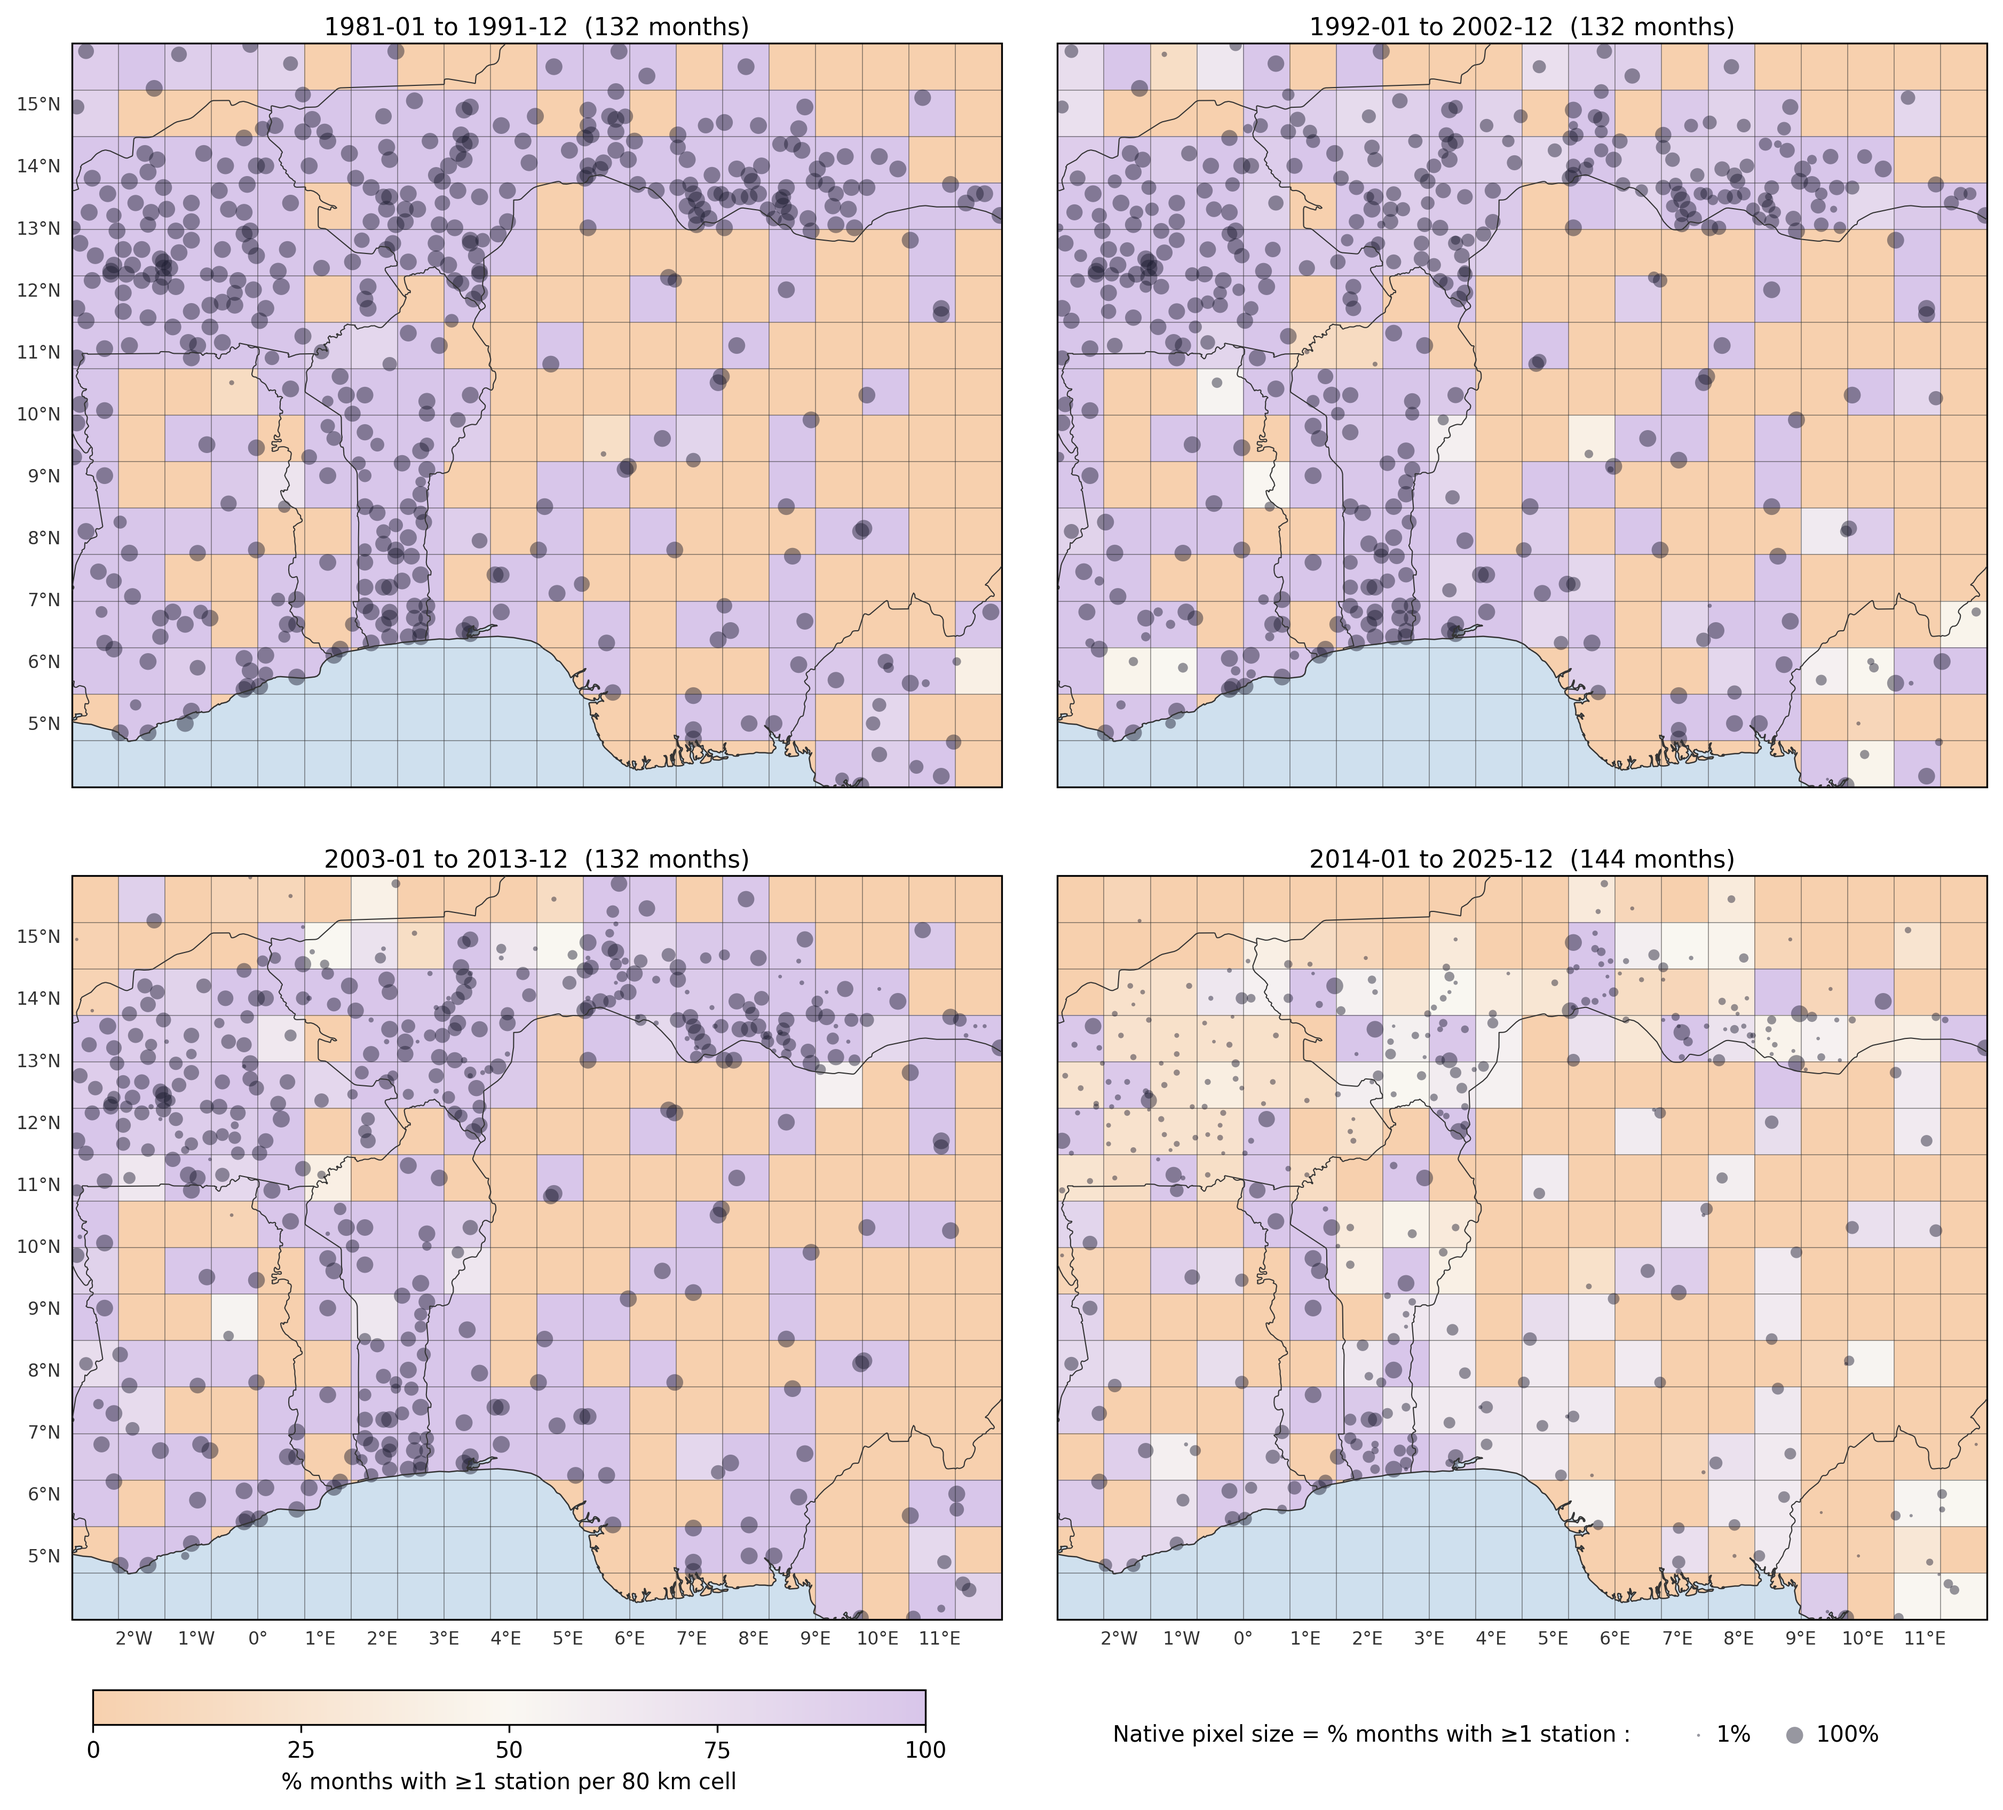
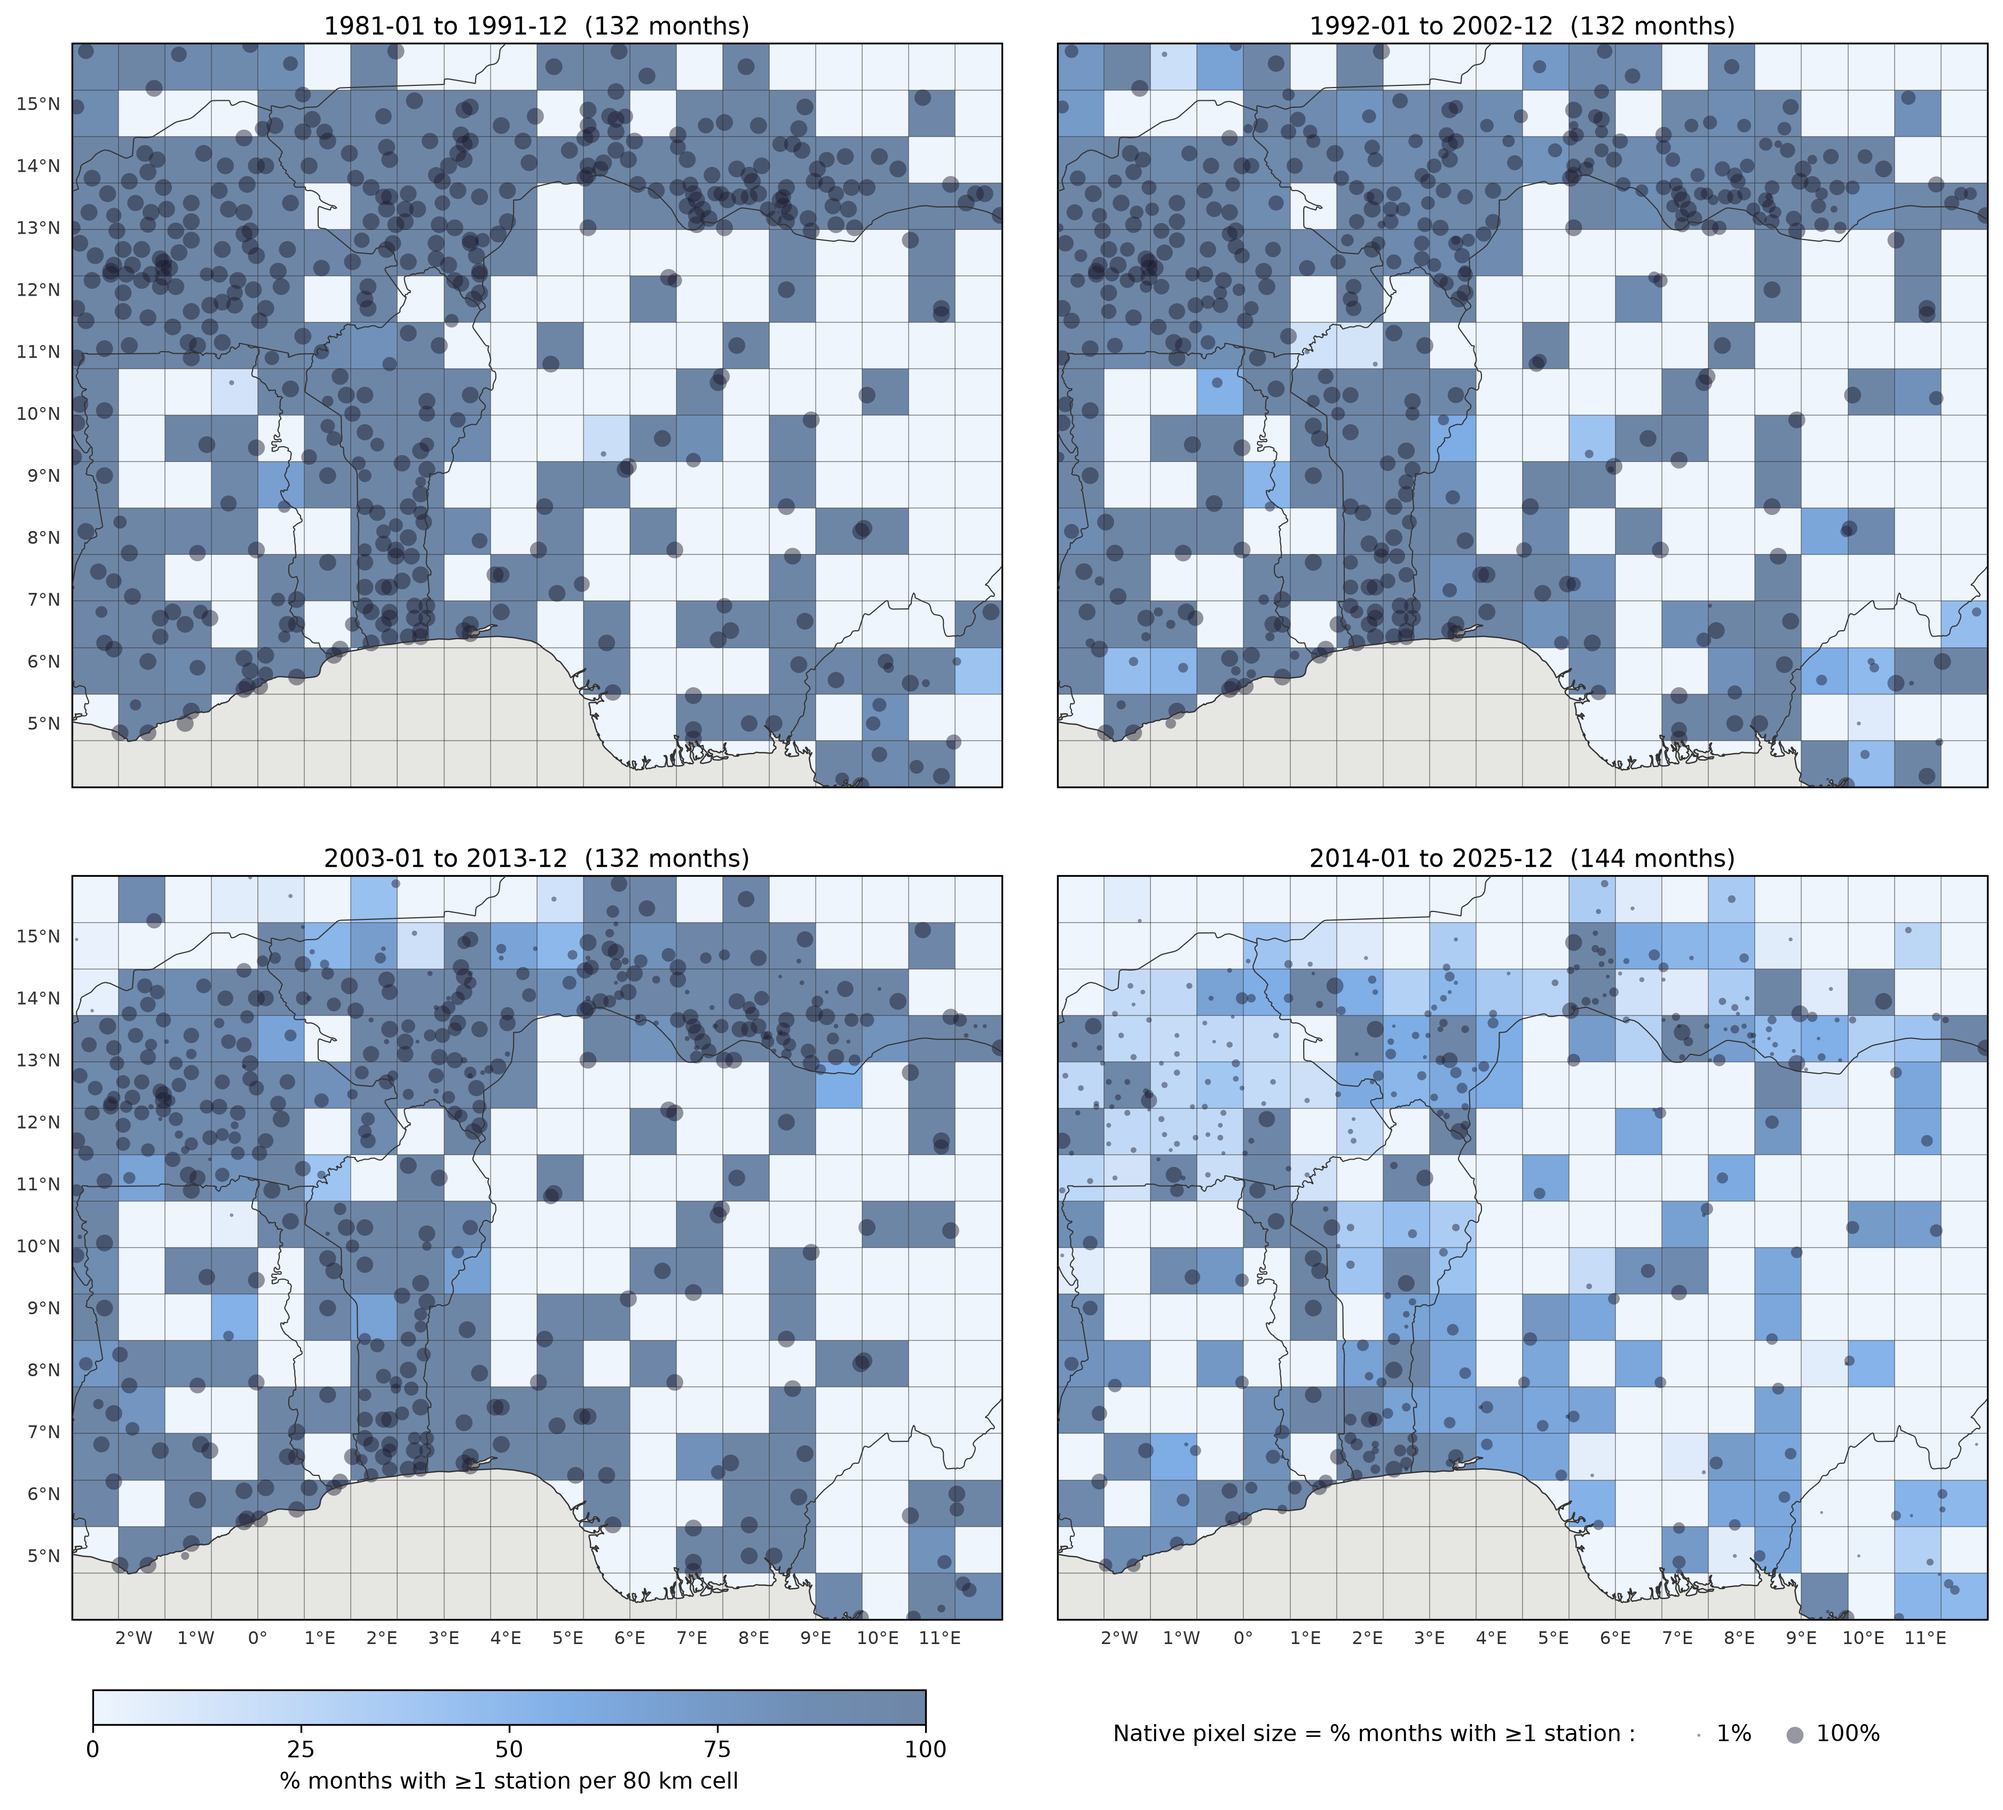
Use one colour-blind-safe blue scale for both submission figures
Figures 1 and 2 now share a sequential blue ramp (light = little or no gauge
support, dark = strong support) with a neutral grey ocean, and Figure 2's
lines are orange (West Africa) and blue (NW US). Figure 2's maps use the
published R² range (0.20-0.85) so the satellite-only value sits at the light
end. Under a Machado (2009) protan/deutan simulation the key contrasts stay
well separated. Data are unchanged.

diff --git a/make_submission_figs.py b/make_submission_figs.py
@@ -1,7 +1,8 @@
 """
 Render submission-ready versions of Figure 1 and Figure 2:
-  - colorblind-safe palettes (orange = un-anchored, purple = station-anchored;
-    no red-green), consistent across both figures
+  - one colorblind-safe sequential blue scale shared by both figures
+    (light = little or no gauge support, dark = strong gauge support),
+    orange/blue time-series lines, and a neutral grey ocean
   - 300 dpi
   - no embedded suptitles (the manuscript captions carry that text)
 
@@ -14,8 +15,12 @@ from pathlib import Path
 
 import matplotlib
 matplotlib.use("Agg")
+import matplotlib.colors as mcolors
 import matplotlib.figure
 import matplotlib.pyplot as plt
+import cartopy.crs as ccrs
+import cartopy.feature as cfeature
+import cartopy.mpl.geoaxes as geoaxes
 
 OUT_DIR = Path("figures/submission")
 OUT_DIR.mkdir(parents=True, exist_ok=True)
@@ -30,17 +35,31 @@ def _savefig_300(self, *args, **kwargs):
 matplotlib.figure.Figure.savefig = _savefig_300
 matplotlib.figure.Figure.suptitle = lambda self, *a, **k: None
 
+# ---- shared colours ---------------------------------------------------------
+# One sequential blue ramp (light -> dark) for both figures' maps. Under a
+# Machado et al. (2009) protan/deutan simulation, 0% vs 100% coverage and
+# R² 0.25 vs 0.85 stay well separated, unlike the red-yellow-green originals.
+BLUE = ["#e4effc", "#b7d3f6", "#86b6ef", "#5598e7",
+        "#2a78d6", "#1c5cab", "#104281", "#0d366b"]
+OCEAN = "#e6e6e3"  # neutral grey, so the sea is not read as a light blue value
+
+_orig_add_feature = geoaxes.GeoAxes.add_feature
+
+def _add_feature(self, feature, **kwargs):
+    if feature is cfeature.OCEAN:
+        kwargs["facecolor"] = OCEAN
+    return _orig_add_feature(self, feature, **kwargs)
+
+geoaxes.GeoAxes.add_feature = _add_feature
+
 # ---------------------------------------------------------------- Figure 1 --
 import fig3_effective_resolution as f3
 
-# pastel orange -> off-white -> pastel purple (CVD-safe; distinct from ocean blue)
-f3.CUSTOM_CMAPS["light_orpu"] = [
-    (0.0, "#F2B279"), (0.5, "#F7F3EA"), (1.0, "#BFA0DC"),
-]
+f3.CUSTOM_CMAPS["blue_seq"] = [(i / (len(BLUE) - 1), c) for i, c in enumerate(BLUE)]
 
 fig1_cfg = replace(
     f3.CONFIG,
-    bg_cmap_name="light_orpu",
+    bg_cmap_name="blue_seq",
     out_path=OUT_DIR / "Fig1_station_coverage.png",
 )
 print("== Figure 1 ==")
@@ -49,16 +68,36 @@ f3.main(fig1_cfg)
 # ---------------------------------------------------------------- Figure 2 --
 import r2_diagnostic as r2
 
-# reference line: green -> purple (ties to purple = well-anchored in the maps)
-r2.STYLE["NW US"]["color"] = "#5B4B8A"
+# time-series lines: orange vs blue stay distinct for red-green colour-blind readers
+r2.STYLE["West Africa"]["color"] = "#eb6834"
+r2.STYLE["NW US"]["color"] = "#2a78d6"
 
-# spatial maps: RdYlGn -> PuOr (orange = satellite-only floor,
-# purple = station-anchored; matches Figure 1's semantics).
-# Patch get_cmap only for this run.
-_orig_get_cmap = plt.get_cmap
-plt.get_cmap = lambda name=None, *a, **k: _orig_get_cmap(
-    "PuOr" if name == "RdYlGn" else name, *a, **k
-)
+BLUE_CMAP = mcolors.LinearSegmentedColormap.from_list("blue_seq", BLUE, N=256)
+
+
+def plot_spatial(ax, grid, transform, region, panel_label, subtitle, title_pad=6):
+    """r2.plot_spatial with the blue ramp on a 0.20-0.85 scale (the published
+    R² range), so 0.25 (satellite-only) sits at the light end."""
+    h, w = grid.shape
+    left, top = transform.c, transform.f
+    extent = (left, left + transform.a * w, top + transform.e * h, top)
+    im = ax.imshow(grid, extent=extent, origin="upper", cmap=BLUE_CMAP,
+                   norm=mcolors.Normalize(vmin=0.2, vmax=0.85),
+                   transform=ccrs.PlateCarree(), interpolation="none", zorder=1)
+    ax.add_feature(cfeature.OCEAN, facecolor=OCEAN, edgecolor="none", zorder=2)
+    ax.add_feature(cfeature.BORDERS, linewidth=0.5, edgecolor="#333333", zorder=4)
+    ax.add_feature(cfeature.COASTLINE, linewidth=0.6, edgecolor="#333333", zorder=4)
+    ax.set_extent([region.west, region.east, region.south, region.north],
+                  crs=ccrs.PlateCarree())
+    gl = ax.gridlines(draw_labels=True, linewidth=0.3, color="#777777", alpha=0.4)
+    gl.top_labels = gl.right_labels = False
+    gl.xlabel_style = {"size": 7}
+    gl.ylabel_style = {"size": 7}
+    ax.set_title(f"{panel_label}. {subtitle}", fontsize=11, pad=title_pad)
+    return im
+
+
+r2.plot_spatial = plot_spatial
 
 fig2_cfg = replace(
     r2.CONFIG,
@@ -70,5 +109,4 @@ fig2_cfg = replace(
 print("== Figure 2 ==")
 r2.main(fig2_cfg)
 
-plt.get_cmap = _orig_get_cmap
 print("done ->", OUT_DIR)
